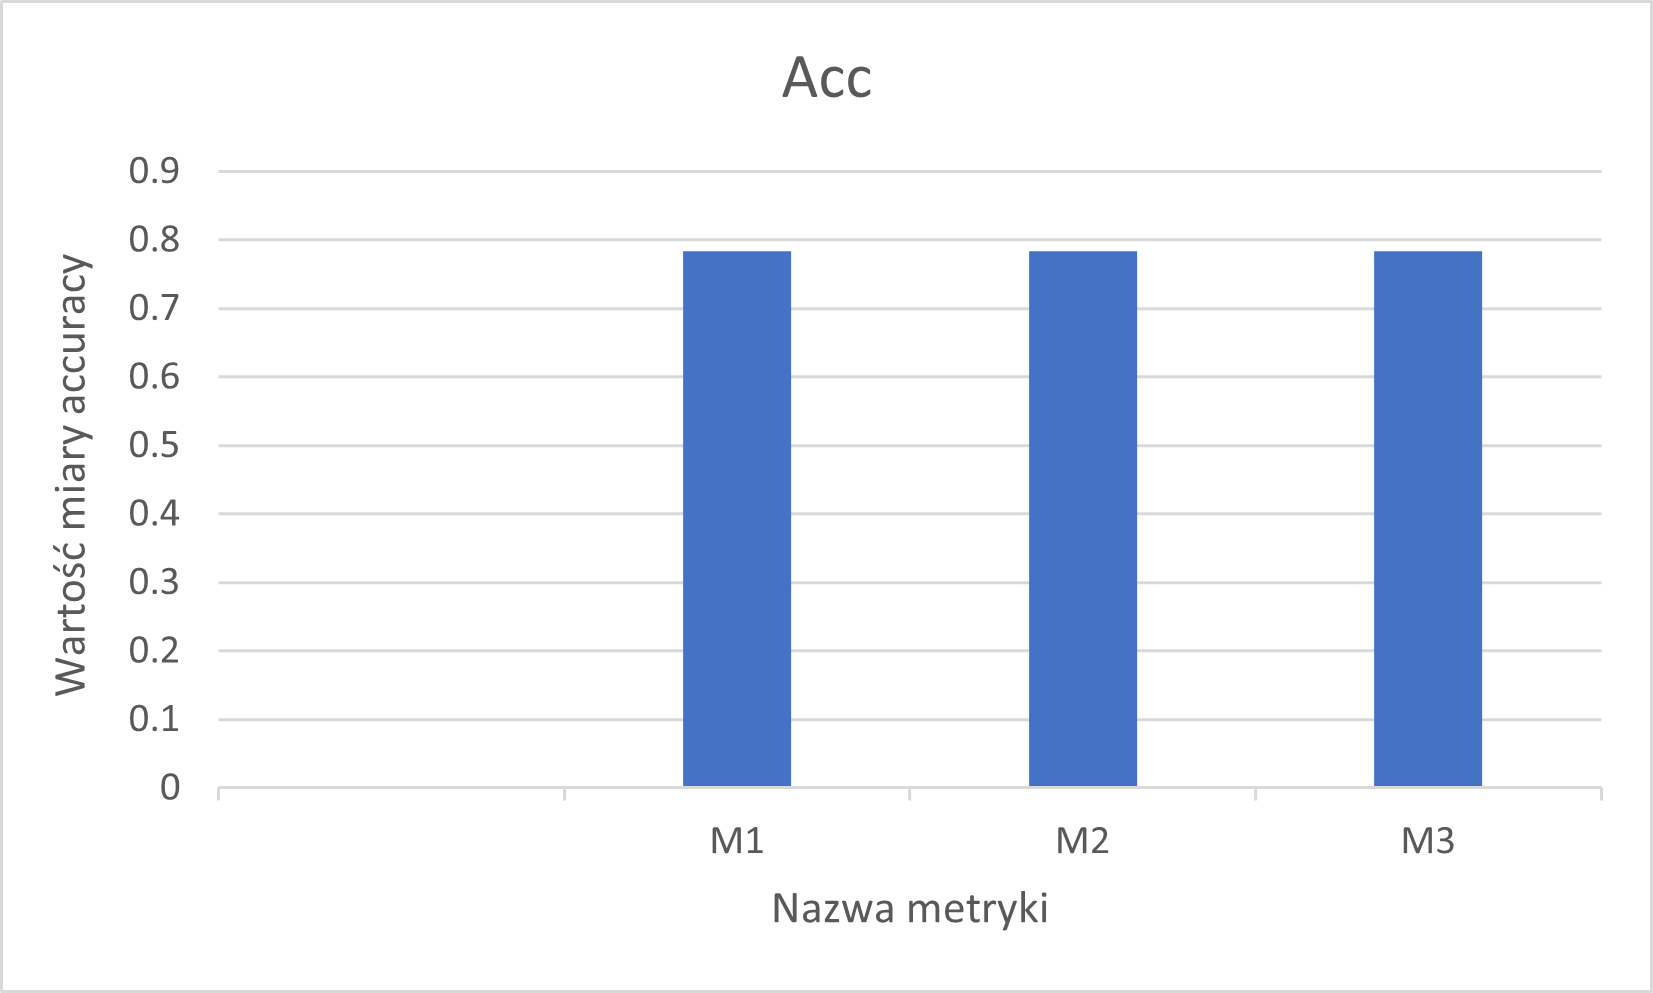
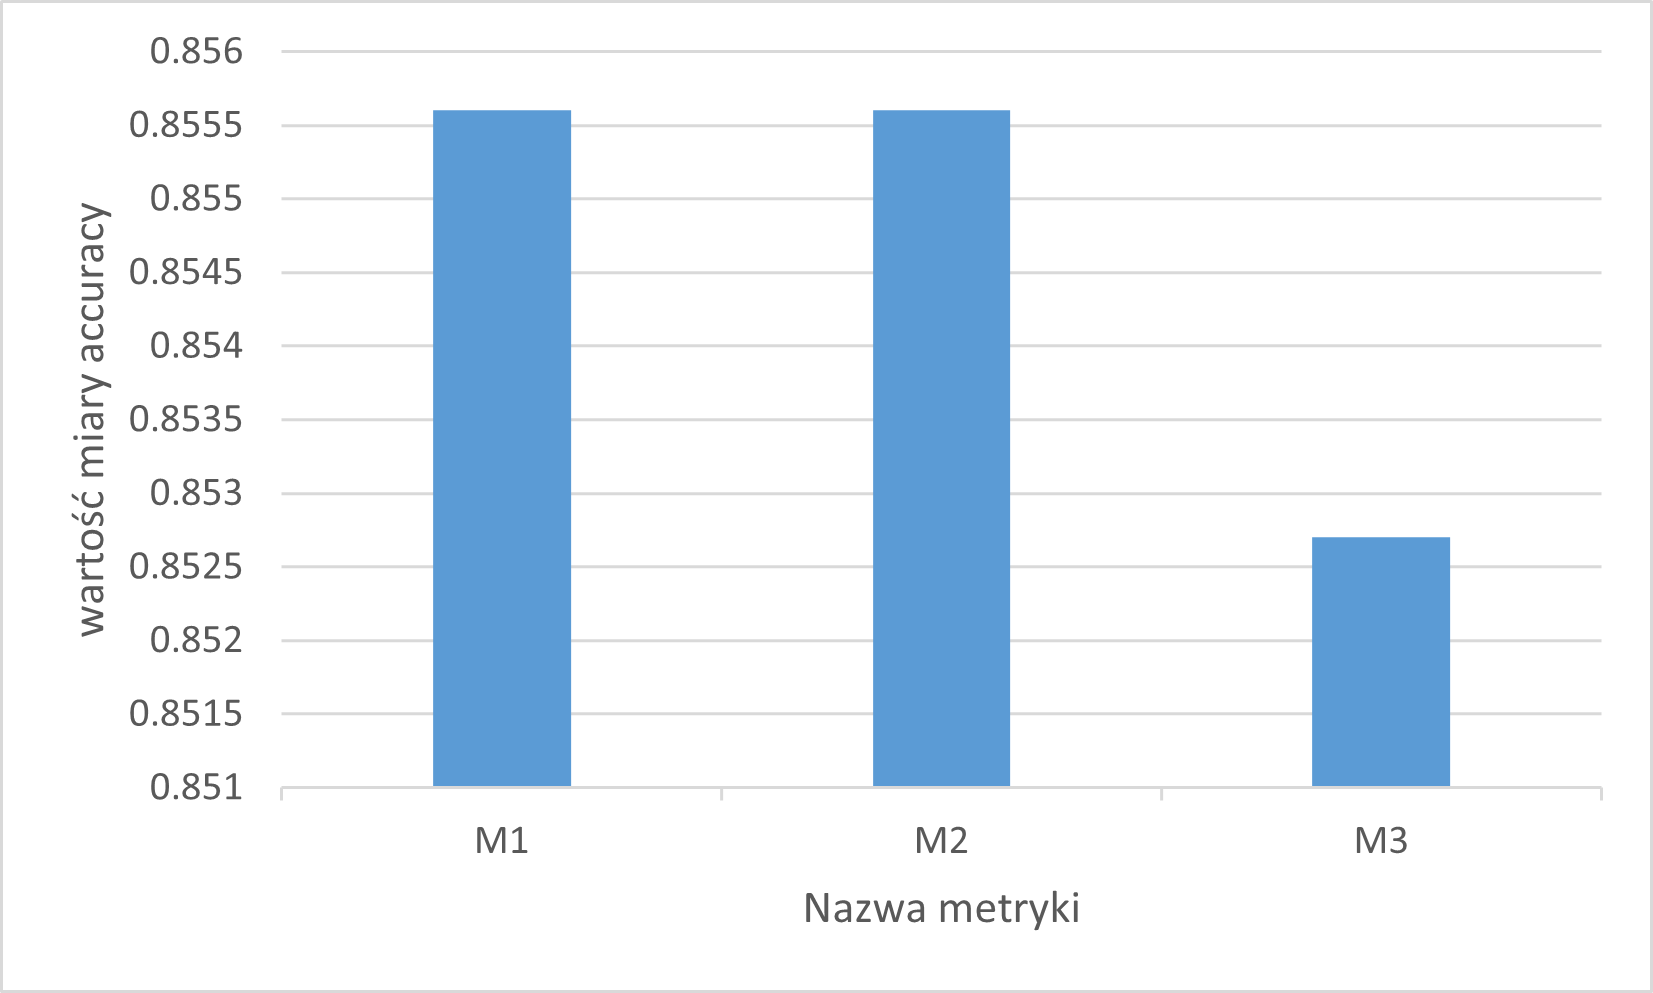
poprawki wykresow na sprawku

diff --git a/sprawko/Sprawozdanie-projekt-1-klasyfikacja.tex b/sprawko/Sprawozdanie-projekt-1-klasyfikacja.tex
@@ -474,25 +474,25 @@ Poniżej zamieszczono tabele wynikowe oraz wykresy zależności miary Accuracy o
 \begin{figure}[!htbp]
 \centering
 \includegraphics[width=0.66\textwidth]{wykres5.png}
-\caption{Wykres zależności miary Accuracy od wartości parametru k algorytmu KNN dla metryki M2, 8000 dokumentów oraz dla klasyfikacji 30\% zbioru artykułów (70\% dokumentów należało do zbioru uczącego). Wykres zawiera linię trendu wykazającą wspomnianą zależność.}
+\caption{Wykres zależności miary Accuracy od wartości parametru k algorytmu k-NN dla metryki M2 oraz klasyfikacji 30\% zbioru artykułów (70\% dokumentów należało do zbioru uczącego).}
 \end{figure}
 
 \begin{figure}[!htbp]
 \centering
 \includegraphics[width=0.66\textwidth]{wykres6.png}
-\caption{Wykres zależności miary Accuracy od wartości procentowej zbioru klasyfikowanego dla metryki M1, 8000 dokumentów oraz dla wartości parametru k algorytmu KNN równej 5. Wykres zawiera linię trendu wykazającą wspomnianą zależność}
+\caption{Wykres zależności miary Accuracy od wartości procentowej zbioru klasyfikowanego dla metryki M1 oraz wartości parametru k algorytmu k-NN równej 7.}
 \end{figure}
 
 \begin{figure}[!htbp]
 \centering
 \includegraphics[width=0.66\textwidth]{wykres7.png}
-\caption{Wykres zależności miary Accuracy od wybranej metryki dla 8000 dokumentów, wartości parametru k algorytmu KNN równej 5 oraz dla klasyfikacji 30\% zbioru artykułów (70\% dokumentów należało do zbioru uczącego).}
+\caption{Wykres zależności miary Accuracy od wybranej metryki dla wartości parametru k algorytmu k-NN równej 7 oraz dla klasyfikacji 30\% zbioru artykułów (70\% dokumentów należało do zbioru uczącego).}
 \end{figure}
 
 \begin{figure}[!htbp]
 \centering
 \includegraphics[width=0.66\textwidth]{wykres8.png}
-\caption{Wykres zależności miary Accuracy od wybranych podzbiorów cech używanych w obliczeniach odległości w algorytmie KNN dla 8000 dokumentów, klasyfikacji 30\% zbioru artykułów (70\% dokumentów należało do zbioru uczącego), wartości parametru k algorytmu KNN równej 5 oraz dla metryki M1.}
+\caption{Wykres zależności miary Accuracy od wybranych podzbiorów cech używanych w obliczeniach odległości w algorytmie k-NN dla klasyfikacji 30\% zbioru artykułów (70\% dokumentów należało do zbioru uczącego), wartości parametru k algorytmu k-NN równej 7 oraz dla metryki M1.}
 \end{figure}
 
 
